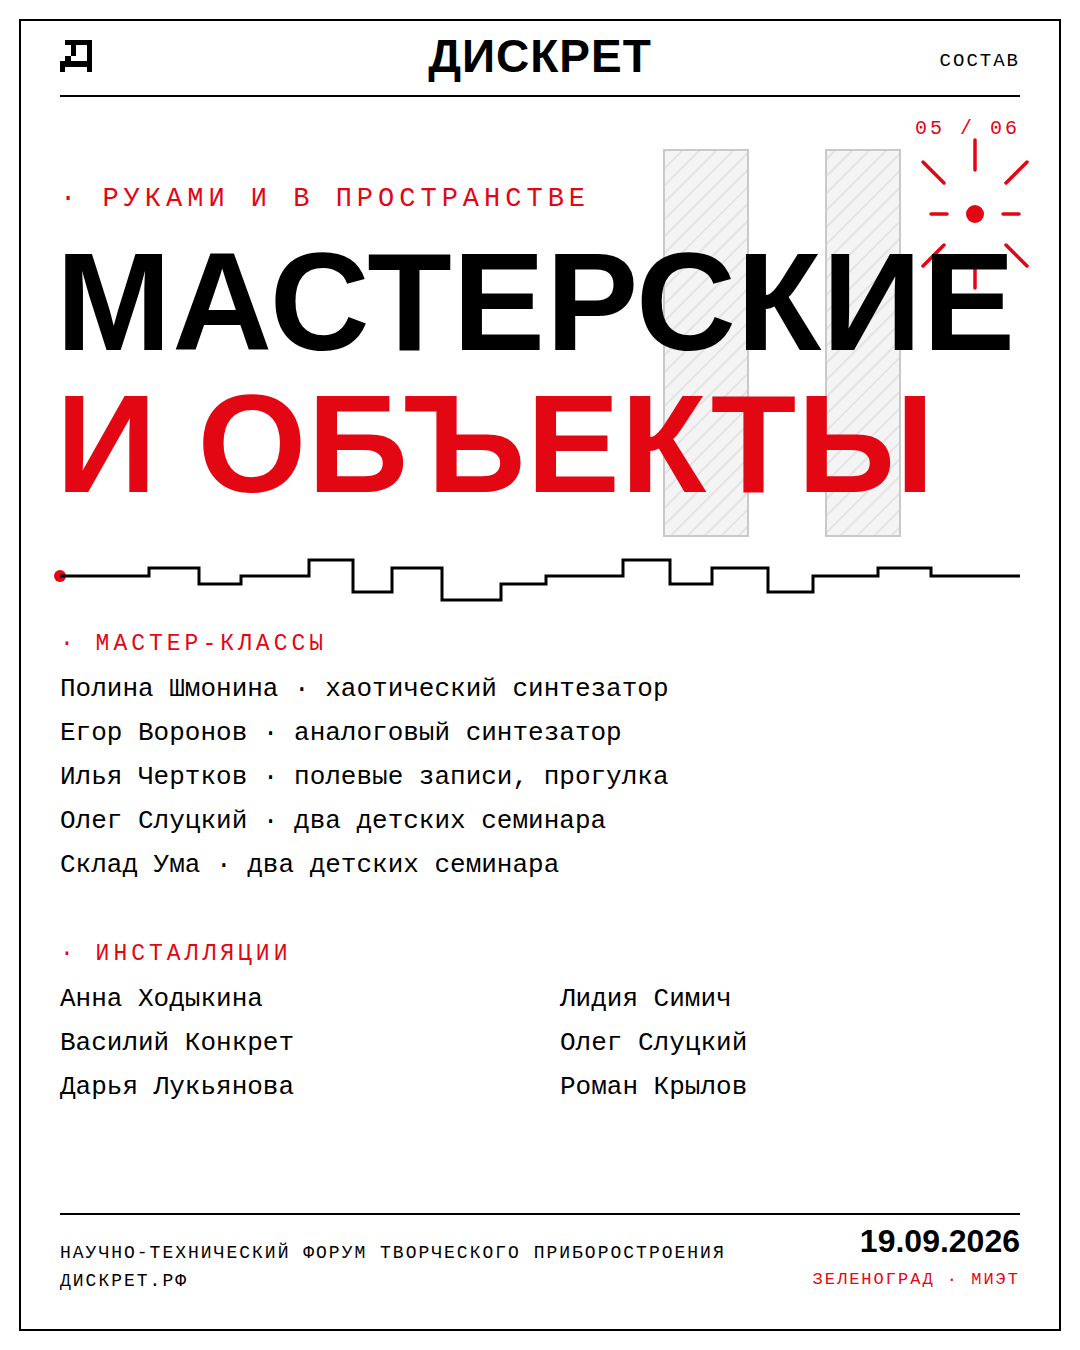
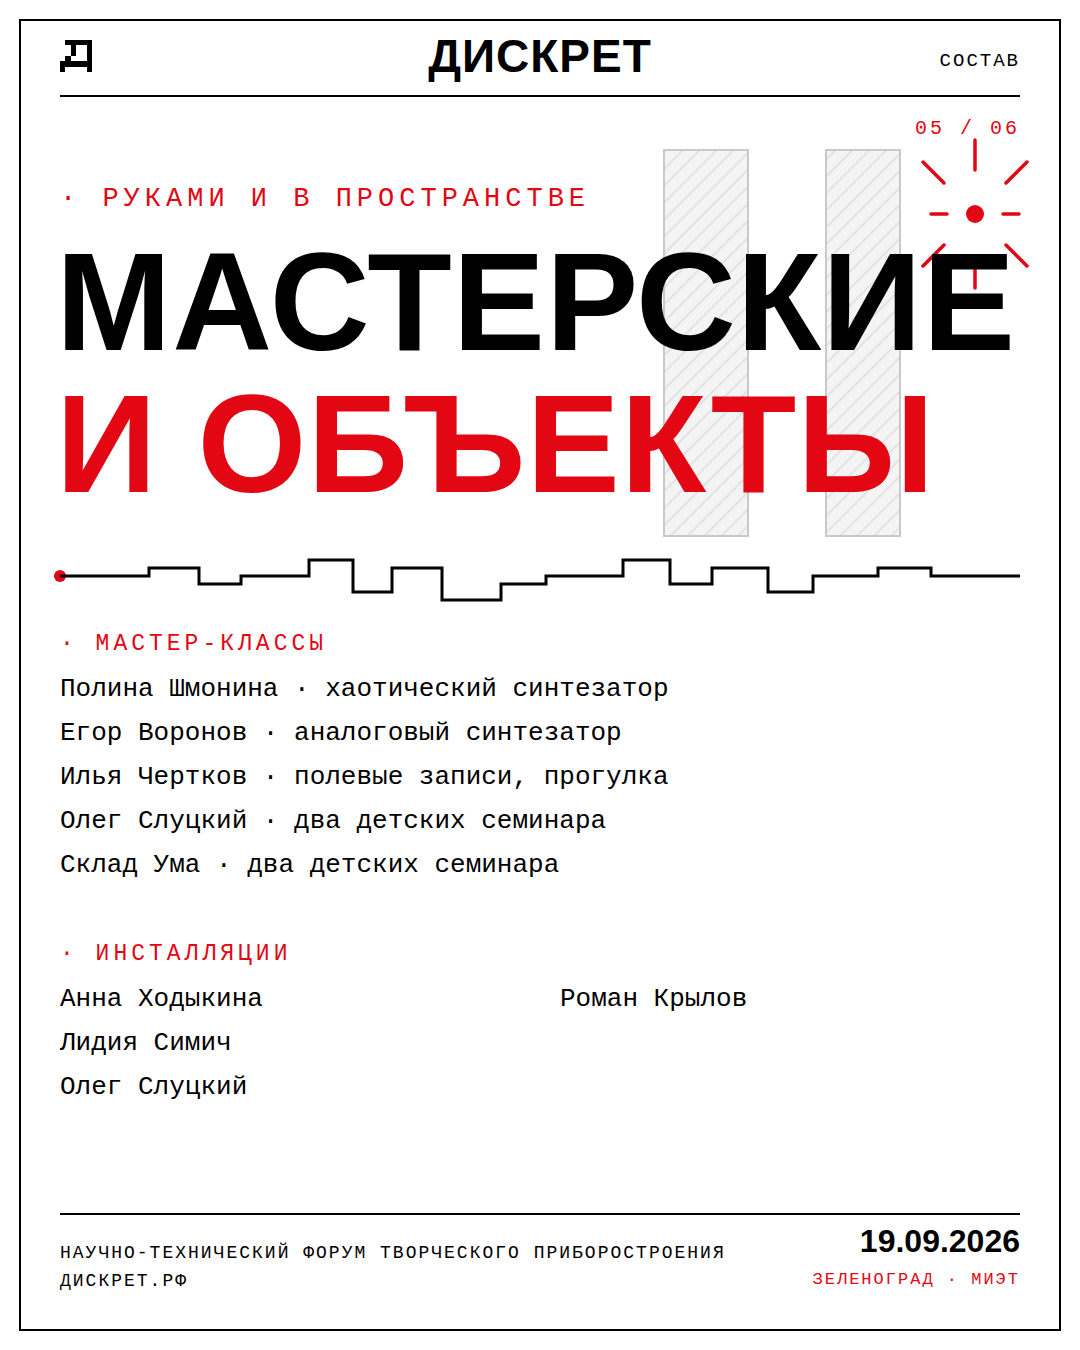
Партнёр EIGHT FLOOR; Конкрет и Лукьянова сняты с инсталляций
Claude-Session: https://claude.ai/code/session_01J7cakNvVwscKzgnd8yf78u

Changed region(s): [[0.5194, 0.7156, 0.7028, 0.8089], [0.0611, 0.7467, 0.275, 0.8089]]

diff --git a/branding/app/index.html b/branding/app/index.html
@@ -391,7 +391,7 @@
 </div>
 
 <script>
-window.PHOTOS = {"ac1":"photos/ac1.jpg","ac2":"photos/ac2.jpg","alphaseq":"photos/alphaseq.jpg","arch1":"photos/arch1.jpg","arch2":"photos/arch2.jpg","astrovox":"photos/astrovox.jpg","bj":"photos/bj.jpg","bj2":"photos/bj2.jpg","bj3":"photos/bj3.jpg","hgx":"photos/hgx.jpg","hgx2":"photos/hgx2.jpg","hruine1":"photos/hruine1.jpg","laser":"photos/laser.jpg","laser1":"photos/laser1.jpg","laser2":"photos/laser2.jpg","lnlogo":"photos/lnlogo.png","lnreal":"photos/lnreal.png","moub1":"photos/moub1.jpg","para":"photos/para.jpg","para2":"photos/para2.jpg","para3":"photos/para3.jpg","shadow1":"photos/shadow1.jpg","shadow2":"photos/shadow2.jpg","spacekir1":"photos/spacekir1.jpg","sx":"photos/sx.jpg","sx2":"photos/sx2.jpg","sxlab":"photos/sxlab.jpg","tamogni1":"photos/tamogni1.jpg","tiihaya1":"photos/tiihaya1.jpg","tiihaya2":"photos/tiihaya2.jpg","tiihaya3":"photos/tiihaya3.jpg","tw":"photos/tw.jpg","tw2":"photos/tw2.jpg","tw3":"photos/tw3.jpg","tw4":"photos/tw4.jpg","vg":"photos/vg.jpg","vg1":"photos/vg1.jpg","vg2":"photos/vg2.jpg","vg3":"photos/vg3.jpg","kaledoscope":"photos/kaledoscope.jpg","unost":"photos/unost.jpg","nb1":"photos/nb1.jpg","nb2":"photos/nb2.jpg","nb3":"photos/nb3.jpg","kr1":"photos/kr1.jpg","kr2":"photos/kr2.jpg","edw1":"photos/edw1.jpg","edw2":"photos/edw2.jpg","edw3":"photos/edw3.jpg","faza1":"photos/faza1.jpg","rez1":"photos/rez1.jpg","rez2":"photos/rez2.jpg","rez3":"photos/rez3.jpg","porky1":"photos/porky1.jpg","moon1":"photos/moon1.jpg","prov1":"photos/prov1.jpg","prov2":"photos/prov2.jpg","sl1":"photos/sl1.jpg","sl2":"photos/sl2.jpg","org_novikov":"photos/org_novikov.jpg","org_grigoriev":"photos/org_grigoriev.jpg","org_slutsky":"photos/org_slutsky.jpg","org_boykov":"photos/org_boykov.jpg","tr1":"photos/tr1.jpg","mayak":"photos/mayak.jpg","pribor1":"photos/pribor1.jpg","lg_picaso":"photos/lg_picaso.svg","lg_soyuz":"photos/lg_soyuz.jpg","lg_baklazhania":"photos/lg_baklazhania.svg","lg_efemi":"photos/lg_efemi.svg","lg_angstrem":"photos/lg_angstrem.svg","lg_ioaudio":"photos/lg_ioaudio.svg","lg_flataudio":"photos/lg_flataudio.svg","lg_infoportal":"photos/lg_infoportal.svg","lg_lasernoto":"photos/lg_lasernoto.svg","lg_skladuma":"photos/lg_skladuma.png","lg_studiomarket":"photos/lg_studiomarket.png","lg_mworld":"photos/lg_mworld.png","lg_djstore":"photos/lg_djstore.png","ravzar1":"photos/ravzar1.png"};
+window.PHOTOS = {"ac1":"photos/ac1.jpg","ac2":"photos/ac2.jpg","alphaseq":"photos/alphaseq.jpg","arch1":"photos/arch1.jpg","arch2":"photos/arch2.jpg","astrovox":"photos/astrovox.jpg","bj":"photos/bj.jpg","bj2":"photos/bj2.jpg","bj3":"photos/bj3.jpg","hgx":"photos/hgx.jpg","hgx2":"photos/hgx2.jpg","hruine1":"photos/hruine1.jpg","laser":"photos/laser.jpg","laser1":"photos/laser1.jpg","laser2":"photos/laser2.jpg","lnlogo":"photos/lnlogo.png","lnreal":"photos/lnreal.png","moub1":"photos/moub1.jpg","para":"photos/para.jpg","para2":"photos/para2.jpg","para3":"photos/para3.jpg","shadow1":"photos/shadow1.jpg","shadow2":"photos/shadow2.jpg","spacekir1":"photos/spacekir1.jpg","sx":"photos/sx.jpg","sx2":"photos/sx2.jpg","sxlab":"photos/sxlab.jpg","tamogni1":"photos/tamogni1.jpg","tiihaya1":"photos/tiihaya1.jpg","tiihaya2":"photos/tiihaya2.jpg","tiihaya3":"photos/tiihaya3.jpg","tw":"photos/tw.jpg","tw2":"photos/tw2.jpg","tw3":"photos/tw3.jpg","tw4":"photos/tw4.jpg","vg":"photos/vg.jpg","vg1":"photos/vg1.jpg","vg2":"photos/vg2.jpg","vg3":"photos/vg3.jpg","kaledoscope":"photos/kaledoscope.jpg","unost":"photos/unost.jpg","nb1":"photos/nb1.jpg","nb2":"photos/nb2.jpg","nb3":"photos/nb3.jpg","kr1":"photos/kr1.jpg","kr2":"photos/kr2.jpg","edw1":"photos/edw1.jpg","edw2":"photos/edw2.jpg","edw3":"photos/edw3.jpg","faza1":"photos/faza1.jpg","rez1":"photos/rez1.jpg","rez2":"photos/rez2.jpg","rez3":"photos/rez3.jpg","porky1":"photos/porky1.jpg","moon1":"photos/moon1.jpg","prov1":"photos/prov1.jpg","prov2":"photos/prov2.jpg","sl1":"photos/sl1.jpg","sl2":"photos/sl2.jpg","org_novikov":"photos/org_novikov.jpg","org_grigoriev":"photos/org_grigoriev.jpg","org_slutsky":"photos/org_slutsky.jpg","org_boykov":"photos/org_boykov.jpg","tr1":"photos/tr1.jpg","mayak":"photos/mayak.jpg","pribor1":"photos/pribor1.jpg","lg_picaso":"photos/lg_picaso.svg","lg_soyuz":"photos/lg_soyuz.jpg","lg_baklazhania":"photos/lg_baklazhania.svg","lg_efemi":"photos/lg_efemi.svg","lg_angstrem":"photos/lg_angstrem.svg","lg_ioaudio":"photos/lg_ioaudio.svg","lg_flataudio":"photos/lg_flataudio.svg","lg_infoportal":"photos/lg_infoportal.svg","lg_lasernoto":"photos/lg_lasernoto.svg","lg_skladuma":"photos/lg_skladuma.png","lg_studiomarket":"photos/lg_studiomarket.png","lg_mworld":"photos/lg_mworld.png","lg_djstore":"photos/lg_djstore.png","ravzar1":"photos/ravzar1.png","lg_eightfloor":"photos/lg_eightfloor.png"};
 // фото лежат отдельными файлами в photos/ и подгружаются лениво
 const ORG = {
   inst: [
@@ -411,6 +411,7 @@ const ORG = {
     { name:"Studio Market", role:"информационный партнёр", photo:"lg_studiomarket", links:[{t:"TG",u:"https://t.me/studio_market"}] },
     { name:"Multimedia World", role:"информационный партнёр", photo:"lg_mworld", sq:true, links:[{t:"TG",u:"https://t.me/multimedia_world"}] },
     { name:"DJ Store", role:"технический партнёр", photo:"lg_djstore", links:[] },
+    { name:"EIGHT FLOOR", role:"технический партнёр", photo:"lg_eightfloor", sq:true, links:[] },
   ],
   people: [
     { name:"Александр Григорьев", role:"организатор форума", photo:"org_grigoriev" },

diff --git a/branding/press/content-plan.md b/branding/press/content-plan.md
@@ -409,6 +409,10 @@ Laboratory). Начало и завершение — у инфостойки н
 
 [строки о проектах — добавить, когда пришлют названия и описания]
 
+> **Служебное (14.09):** Василий Конкрет и Дарья Лукьянова участвовать
+> не смогут — из актуальных списков и афиш убраны. Действующий состав
+> инсталляций: Анна Ходыкина, Лидия Симич, Олег Слуцкий, Роман Крылов.
+
 📅 19.09.2026 · с 13:00 · 📍 Зеленоград · МИЭТ
 🎟 flat.audio/e/2470 · 🤖 @dskrt_bot · 🌐 дискрет.рф
 
@@ -746,9 +750,9 @@ flat.audio/e/2470 — но лучше не откладывать. До встр
    будет» и поста 08.09).
 3. **Запись на мастер-классы** (взрослые и детские): где — flat.audio,
    бот, на месте?
-4. **Опенколл на инсталляции (26.08)**: отобраны Анна Ходыкина, Василий
-   Конкрет, Дарья Лукьянова, Лидия Симич, Олег Слуцкий — нужны названия
-   проектов и пара строк о каждом.
+4. **Опенколл на инсталляции (26.08)**: актуальный состав — Анна Ходыкина,
+   Лидия Симич, Олег Слуцкий, Роман Крылов (Конкрет и Лукьянова выбыли,
+   14.09) — нужны названия проектов и пара строк о каждом.
 5. **Партнёры**: порядок постов подтвердить (ЭФЭМИ → Пикасо → ?);
    для третьего поста — пара фактов о Баклажании, СОЮЗе и ioAudio.
 6. **Анна Пряхина и Gogidze**: описания и ссылки.
